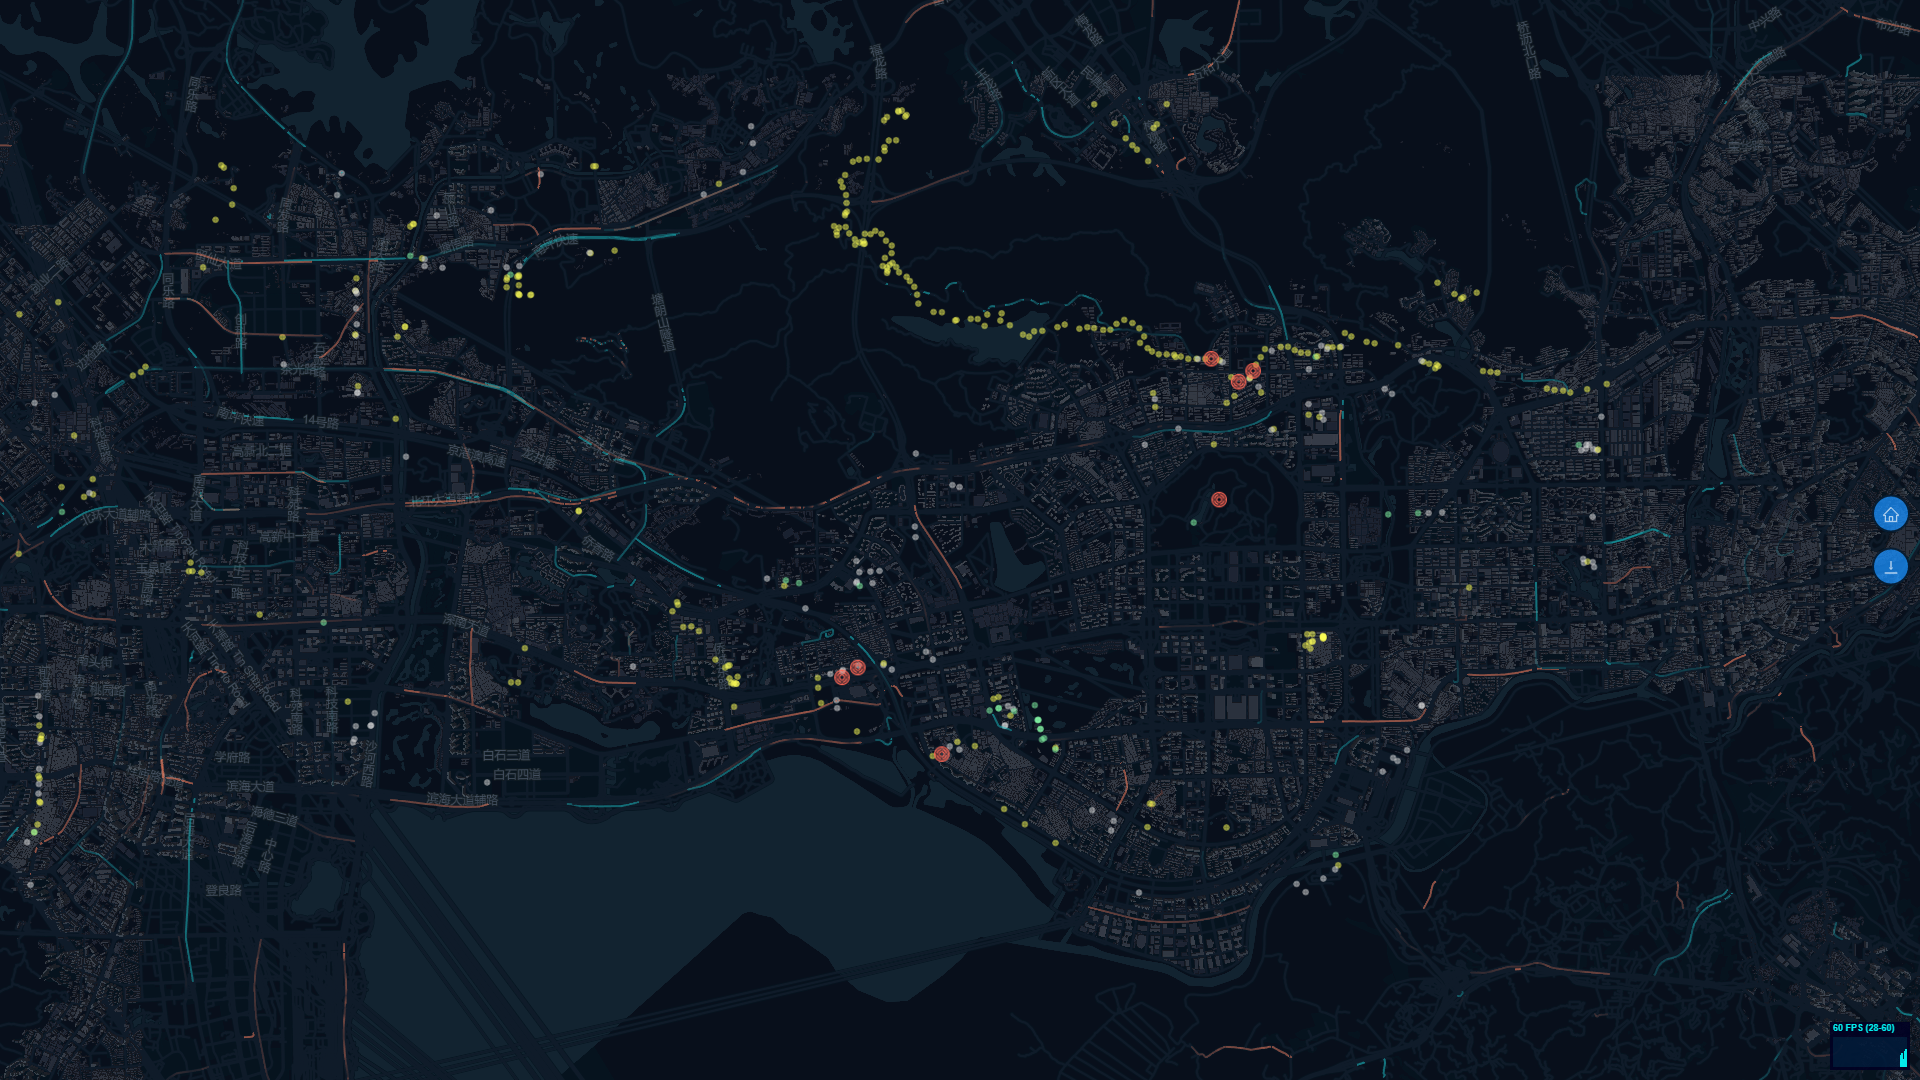
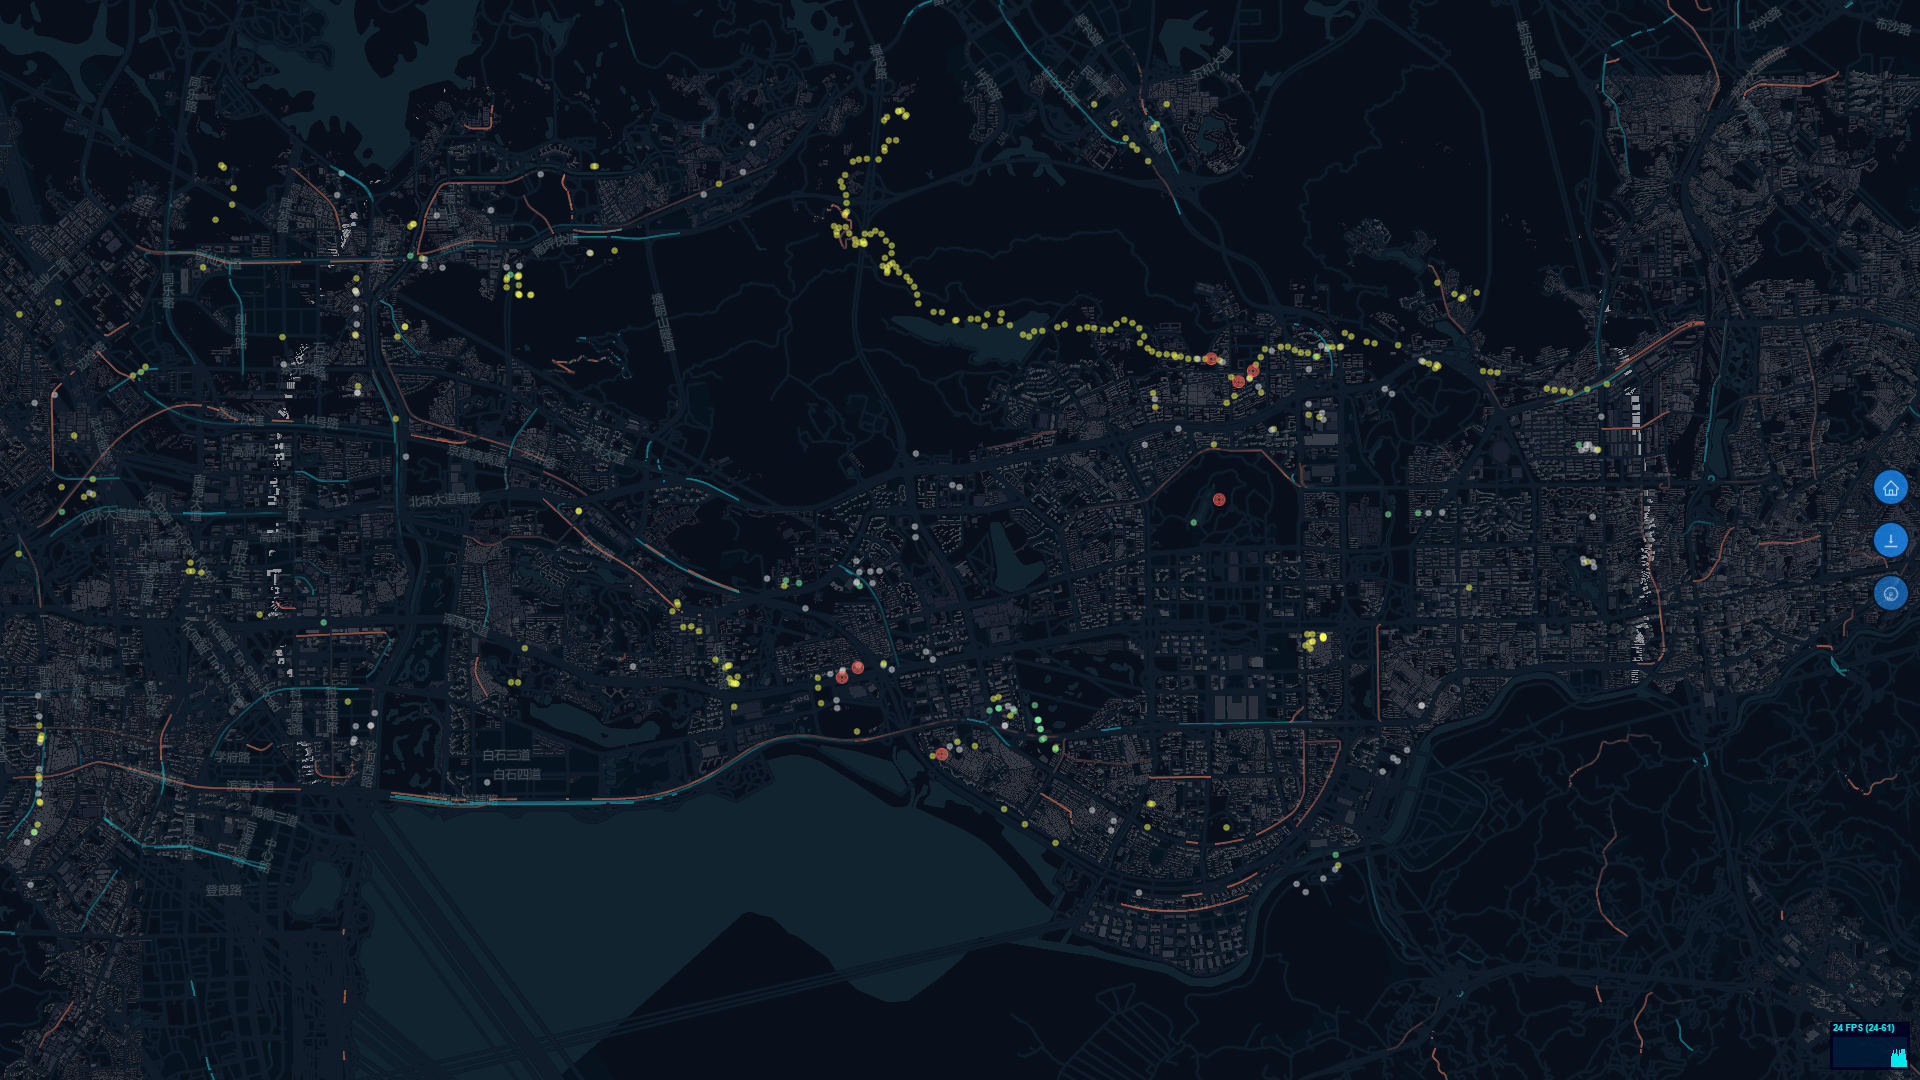
新增功能建筑扫描控制器（扫描动画掉帧的问题需要继续优化）

diff --git a/src/pages/map/components/MidRightBar/ScanControl/index.js b/src/pages/map/components/MidRightBar/ScanControl/index.js
@@ -1,0 +1,80 @@
+import * as React from 'react';
+import * as PropTypes from 'prop-types';
+import { useList } from 'react-use';
+import { Button, Tooltip } from 'antd';
+import * as turf from '@turf/turf';
+import { IconFont } from '@/components';
+
+export default function ScanControlView({ loading, isScan, map, onClick }) {
+  const [scanFeatures, { set }] = useList([]);
+
+  React.useLayoutEffect(() => {
+    if (!map || !isScan) return;
+
+    const center = turf.point([114.0213, 22.5523]);
+    const features = map.querySourceFeatures('buildings', { sourceLayer: 'buildings' }).map((feature) => ({
+      id: feature['id'],
+      distance: turf.distance(center, turf.center(feature)),
+    }));
+    const speedFactor = 30;
+    let animation;
+    let startTime = 0;
+    let radius = 0.0;
+
+    const startAnimation = (timestamp) => {
+      const progress = timestamp - startTime;
+      if (progress > speedFactor) {
+        startTime = timestamp;
+        set(features.filter(({ distance }) => distance < radius && distance > radius - 0.1));
+        radius = radius >= 10.0 ? 0.0 : radius + 0.2;
+      }
+      animation = requestAnimationFrame(startAnimation);
+    };
+    startTime = performance.now();
+    startAnimation(startTime);
+
+    return () => {
+      cancelAnimationFrame(animation);
+      set([]);
+    };
+  }, [isScan, map]);
+
+  React.useEffect(() => {
+    if (!map) return;
+    scanFeatures.forEach(({ id }) => {
+      map.setFeatureState({ id, source: 'buildings', sourceLayer: 'buildings' }, { highlighted: !0 });
+    });
+    return () => {
+      scanFeatures.forEach(({ id }) => {
+        map.setFeatureState({ id, source: 'buildings', sourceLayer: 'buildings' }, { highlighted: !1 });
+      });
+    };
+  }, [scanFeatures, map]);
+
+  return (
+    <Tooltip title={`${!isScan ? '开启' : '关闭'}建筑扫描`} placement="left">
+      <Button
+        loading={loading}
+        shape="circle"
+        type="primary"
+        onClick={() => {
+          typeof onClick === 'function' && onClick(!isScan);
+        }}
+      >
+        {!loading && <IconFont type="icon-saomiao" spin={isScan} />}
+      </Button>
+    </Tooltip>
+  );
+}
+
+ScanControlView.propTypes = {
+  loading: PropTypes.bool.isRequired,
+  isScan: PropTypes.bool.isRequired,
+  map: PropTypes.object,
+  onChange: PropTypes.func,
+};
+
+ScanControlView.defaultProps = {
+  loading: !1,
+  isScan: !1,
+};

diff --git a/src/pages/map/_layout.js b/src/pages/map/_layout.js
@@ -13,7 +13,9 @@ const LayoutPage = function({ children }) {
 
   const [map, setMap] = React.useState(null);
 
-  const [isUnderground, setisUnderground] = React.useState(!1);
+  const [isUnderground, setIsUnderground] = React.useState(!1);
+
+  const [isScan, setIsScan] = React.useState(!1);
 
   React.useLayoutEffect(() => {
     setViewState(() => ({
@@ -36,14 +38,20 @@ const LayoutPage = function({ children }) {
   };
 
   return (
-    <PageContext.Provider value={{ parentViewState: viewState, map, setMap, isUnderground }}>
+    <PageContext.Provider value={{ parentViewState: viewState, map, setMap, isUnderground, isScan }}>
       <MidRightBar>
         <MidRightBar.HomeControl loading={!map} onClick={handleHomeClick} />
         <MidRightBar.UndergroundControl
           loading={!map}
           isUnderground={isUnderground}
           map={map}
-          onClick={(isUnderground) => setisUnderground(isUnderground)}
+          onClick={(isUnderground) => setIsUnderground(isUnderground)}
+        />
+        <MidRightBar.ScanControl
+          loading={!map}
+          isScan={isScan && !isUnderground}
+          map={map}
+          onClick={(isScan) => setIsScan(isScan)}
         />
       </MidRightBar>
       <React.Fragment>{children}</React.Fragment>

diff --git a/src/pages/map/index.js b/src/pages/map/index.js
@@ -5,7 +5,7 @@ import { MapController } from '@deck.gl/core';
 import { useIdle } from 'react-use';
 import { connect } from 'dva';
 import { PageContext, ManholeCoverLayer, PipesLayer, TripsAnimationLayer } from './components';
-import { useMapScan, useRotateCamera } from './hooks';
+import { useRotateCamera } from './hooks';
 
 const { MAP_VIEW_STATE } = process.env;
 
@@ -37,8 +37,6 @@ const IndexPage = () => {
   React.useEffect(() => {
     setViewState((viewState) => ({ ...viewState, ...parentViewState }));
   }, [parentViewState]);
-
-  useMapScan({ map });
 
   const isIdle = useIdle(1000 * 60 * 5, !1);
 

diff --git a/src/pages/map/components/MidRightBar/index.js b/src/pages/map/components/MidRightBar/index.js
@@ -5,6 +5,7 @@ import { useMap } from 'react-use';
 import { MidRightBarContext } from './context';
 import HomeControl from './HomeControl';
 import UndergroundControl from './UndergroundControl';
+import ScanControl from './ScanControl';
 import style from './index.css';
 
 export default function MidRightBarView({ visible, children }) {
@@ -27,3 +28,4 @@ MidRightBarView.defaultProps = {
 
 MidRightBarView.HomeControl = HomeControl;
 MidRightBarView.UndergroundControl = UndergroundControl;
+MidRightBarView.ScanControl = ScanControl;

diff --git a/src/pages/map/components/MidRightBar/UndergroundControl/index.js b/src/pages/map/components/MidRightBar/UndergroundControl/index.js
@@ -40,7 +40,7 @@ export default function UndergroundControlView({ loading, isUnderground, map, on
     <Tooltip title={`进入${!isUnderground ? '地下模式' : '地上模式'}`} placement="left">
       <Button
         className={classNames(style['btn'], { [style['up']]: isUnderground })}
-        icon={'vertical-align-bottom'}
+        icon="vertical-align-bottom"
         loading={loading}
         shape="circle"
         type="primary"

diff --git a/src/components/IconFont/index.js b/src/components/IconFont/index.js
@@ -1,0 +1,5 @@
+import { Icon } from 'antd';
+
+export default Icon.createFromIconfontCN({
+  scriptUrl: '//at.alicdn.com/t/font_1550459_68595fqlfxr.js',
+});

diff --git a/src/pages/map/hooks/index.js b/src/pages/map/hooks/index.js
@@ -1,2 +1,1 @@
-export { default as useMapScan } from './useMapScan';
 export { default as useRotateCamera } from './useRotateCamera';

diff --git a/src/components/index.js b/src/components/index.js
@@ -1,0 +1,1 @@
+export { default as IconFont } from './IconFont';
